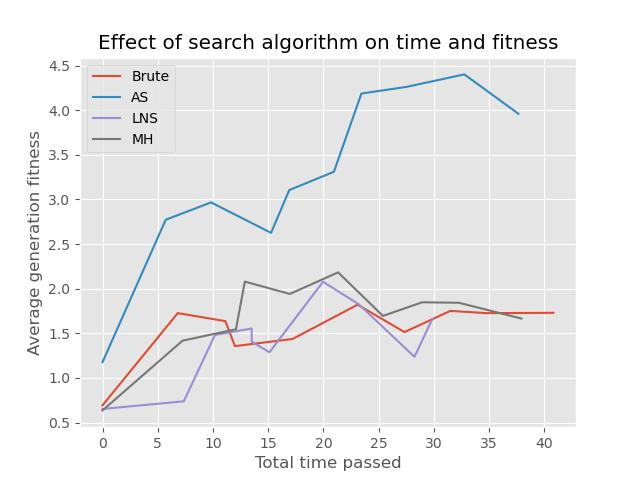
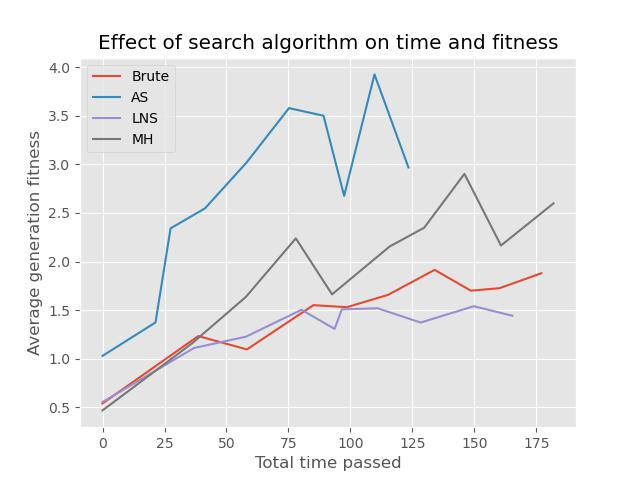
add train and test iterators to algorithms, and bounds to runner

diff --git a/metasynthesis/programming_language/plot_statistics.py b/metasynthesis/programming_language/plot_statistics.py
@@ -19,8 +19,8 @@ class LanguageStatistics:
         # plt.style.use('tableau-colorblind10')
 
         # These parameters are manually updated based on analysis of the plots
-        self.best_parameters = {"generation_limit": 10,
-                                "generation_size": 10,
+        self.best_parameters = {"generation_limit": 30,
+                                "generation_size": 30,
                                 "search_mode": search_mode,
                                 "search_algorithm": "AS",
                                 "search_setting": "SG",
@@ -61,7 +61,7 @@ class LanguageStatistics:
 
         plt.xlabel("Total time passed")
         plt.ylabel("Average generation fitness")
-        plt.title("Effect of search algorithm on time and fitness")
+        # plt.title("Effect of search algorithm on time and fitness")
         plt.legend(loc="upper left")
         plt.savefig(self.base_save_path + "search_algorithm_comparison.jpg")
         plt.close()
@@ -104,7 +104,7 @@ class LanguageStatistics:
 
         plt.xlabel("Total time passed")
         plt.ylabel("Average generation fitness")
-        plt.title("Effect of search setting on time and fitness")
+        # plt.title("Effect of search setting on time and fitness")
         plt.legend(loc="upper left")
         plt.savefig(self.base_save_path + "search_setting_comparison.jpg")
         plt.close()
@@ -150,14 +150,14 @@ class LanguageStatistics:
         plt.figure(1)
         plt.xlabel("Generation")
         plt.ylabel("Ratio correct best chromosome")
-        plt.title("Effect of timeout on ratio correct")
+        # plt.title("Effect of timeout on ratio correct")
         plt.legend(loc="upper left")
         plt.savefig(self.base_save_path + "search_timeout_comparison_correct.jpg")
 
         plt.figure(2)
         plt.xlabel("Generation")
         plt.ylabel("Generation time taken")
-        plt.title("Effect of timeout on generation time")
+        # plt.title("Effect of timeout on generation time")
         plt.legend(loc="upper left")
         plt.savefig(self.base_save_path + "search_timeout_comparison_time.jpg")
 
@@ -198,8 +198,8 @@ class LanguageStatistics:
 
         plt.xlabel("Generations")
         plt.ylabel("Best fitness")
-        plt.title("Effect of mutation methods on fitness")
-        plt.legend(loc="upper left")
+        # plt.title("Effect of mutation methods on fitness")
+        plt.legend(loc="lower right")
         plt.savefig(self.base_save_path + "mutation_method_comparison.jpg")
         plt.close()
 
@@ -237,8 +237,8 @@ class LanguageStatistics:
 
         plt.xlabel("Generations")
         plt.ylabel("Average fitness")
-        plt.title("Effect of crossover methods on fitness")
-        plt.legend(loc="upper left")
+        # plt.title("Effect of crossover methods on fitness")
+        plt.legend(loc="lower right")
         plt.savefig(self.base_save_path + "crossover_method_comparison.jpg")
         plt.close()
 
@@ -271,8 +271,8 @@ class LanguageStatistics:
 
         plt.xlabel("Total time passed")
         plt.ylabel("Best fitness value")
-        plt.title("Effect of population size on fitness vs time passed")
-        plt.legend(loc="upper left")
+        # plt.title("Effect of population size on fitness vs time passed")
+        plt.legend(loc="lower right")
         plt.savefig(self.base_save_path + "population_size_comparison.jpg")
         plt.close()
 
@@ -302,8 +302,8 @@ class LanguageStatistics:
 
         plt.xlabel("Total time passed")
         plt.ylabel("Best fitness value")
-        plt.title("Effect of generation limit on fitness vs time passed")
-        plt.legend(loc="upper left")
+        # plt.title("Effect of generation limit on fitness vs time passed")
+        plt.legend(loc="lower right")
         plt.savefig(self.base_save_path + "generation_limit_comparison.jpg")
         plt.close()
 

diff --git a/language_run_genetic.py b/language_run_genetic.py
@@ -20,15 +20,15 @@ def run_genetic_algorithm_once(domain_for_func):
     dsl = StandardDomainSpecificLanguage(domain)
 
     genetic = EvolvingLanguage(fitness_limit=1,
-                               generation_limit=5,
+                               generation_limit=10,
                                crossover_probability=0.8,
                                mutation_probability=0.3,
                                elite_genomes=2,
-                               generation_size=6,  # 10, 34
+                               generation_size=10,  # 10, 34
                                dsl=dsl,
                                search_setting=get_search_setting(domain_for_func),
-                               max_search_time=0.1,
-                               search_mode="debug",  # set to "eval" for final, "debug" for debugging
+                               max_search_time=1,
+                               search_mode="param_train",  # debug, param_train
                                search_algo="Brute",
                                print_stats=True)
     genetic.run_evolution()
@@ -37,7 +37,7 @@ def run_genetic_algorithm_once(domain_for_func):
 if __name__ == '__main__':
     domain = "string"
 
-    # run_genetic_algorithm_once(domain)
+    run_genetic_algorithm_once(domain)
 
     stats = LanguageStatistics(domain=domain, print_stats=True, search_mode="param")
 
@@ -46,5 +46,5 @@ if __name__ == '__main__':
     # stats.plot_search_timeout_performance()
     # stats.plot_mutation_method_performance()
     # stats.plot_crossover_method_performance()
-    stats.plot_population_size_performance()
-    stats.plot_generation_limit_performance()
+    # stats.plot_population_size_performance()
+    # stats.plot_generation_limit_performance()

diff --git a/solver/runner/runner.py b/solver/runner/runner.py
@@ -1,4 +1,5 @@
 import os
+import time
 from multiprocessing import Pool
 from statistics import mean
 from typing import Callable
@@ -30,7 +31,10 @@ class Runner:
                  suffix: str = "",
                  dsl: DomainSpecificLanguage = None,
                  dist_fun: Callable[[Environment, Environment], float] = None,
-                 multi_thread: bool = True):
+                 multi_thread: bool = True,
+                 left_bound_cases: float = 0,
+                 right_bound_cases: float = 1,
+                 type_cases: str = "all"):
         self.time_limit_sec = time_limit_sec
         self.debug = debug
         self.store = store
@@ -47,6 +51,8 @@ class Runner:
 
         self.file_manager = FileManager(algo, setting, suffix)
         self.multi_thread = multi_thread
+        self.left_bound_cases = left_bound_cases
+        self.right_bound_cases = right_bound_cases
 
         self.search_results = dict()
 
@@ -58,6 +64,7 @@ class Runner:
 
         exclude = self.file_manager.finished_test_cases() if self.store else []
         all_cases = get_test_cases(self.settings.domain, self.files, exclude)
+        all_cases = all_cases[round(self.left_bound_cases * len(all_cases)):round(self.right_bound_cases*len(all_cases))]
 
         if self.debug:
             print("Parsed {} test cases".format(len(all_cases)))

diff --git a/solver/runner/algorithms.py b/solver/runner/algorithms.py
@@ -155,6 +155,46 @@ def dicts(param=0.5, alg_sequence=None):
                 )
             },
 
+            "param_train": {
+                "S": (
+                    [1, 3, 5],
+                    range(1, 327, 20),
+                    [1, 2, 3]
+                ),
+
+                "R": (
+                    [],
+                    range(0, 9, 2),
+                    [1]
+                ),
+
+                "P": (
+                    [],
+                    range(0, 9, 2),
+                    [1],
+                )
+            },
+
+            "param_test": {
+                "S": (
+                    [1, 3, 5],
+                    range(11, 327, 20),
+                    [1, 2, 3]
+                ),
+
+                "R": (
+                    [],
+                    range(1, 9, 2),
+                    [1]
+                ),
+
+                "P": (
+                    [],
+                    range(1, 9, 2),
+                    [1],
+                )
+            },
+
             "eval": {
                 "S": (
                     range(1, 10, 2),

diff --git a/metasynthesis/programming_language/evolve_language.py b/metasynthesis/programming_language/evolve_language.py
@@ -273,7 +273,7 @@ class EvolvingLanguage(GeneticAlgorithm):
         runner = Runner(dicts(0),
                         algo=self.search_algo,
                         setting=self.search_setting,
-                        test_cases=self.search_mode,
+                        test_cases="param_test",
                         time_limit_sec=self.max_search_time,
                         debug=False,
                         store=False,
